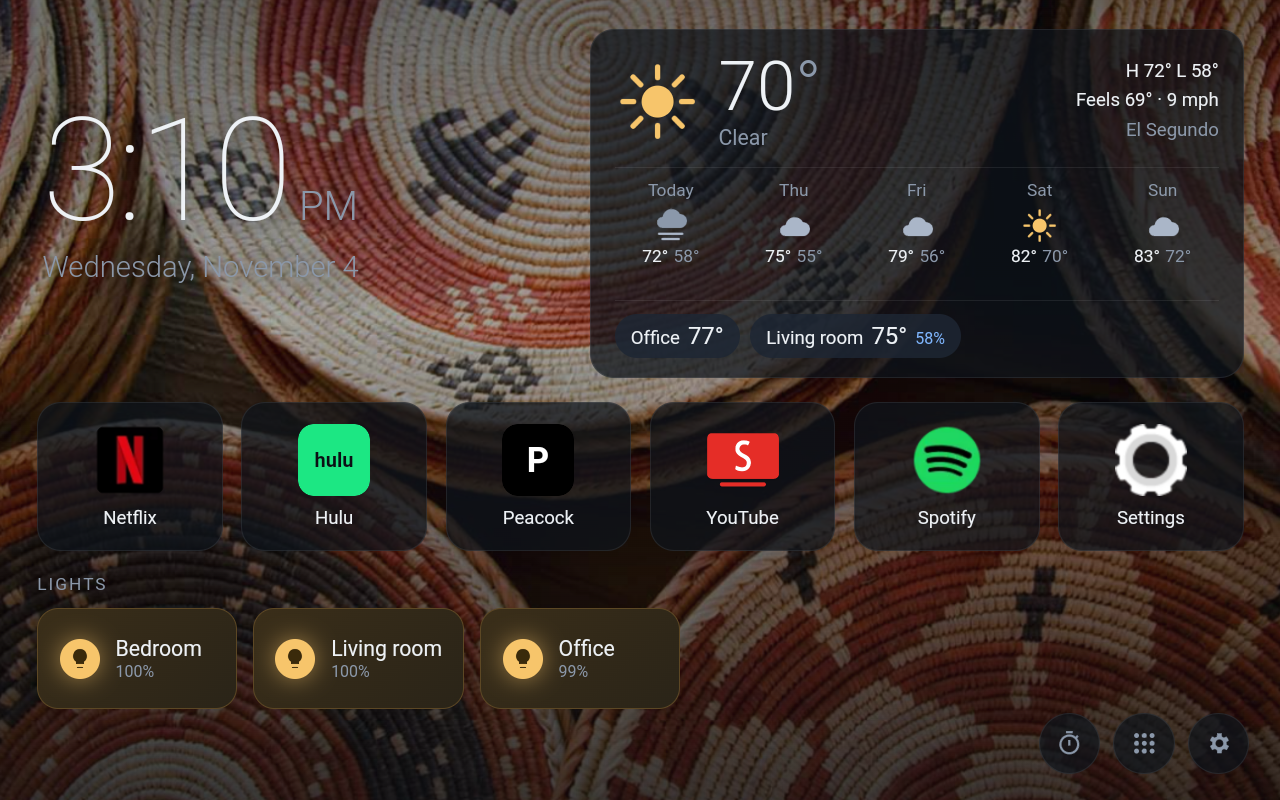
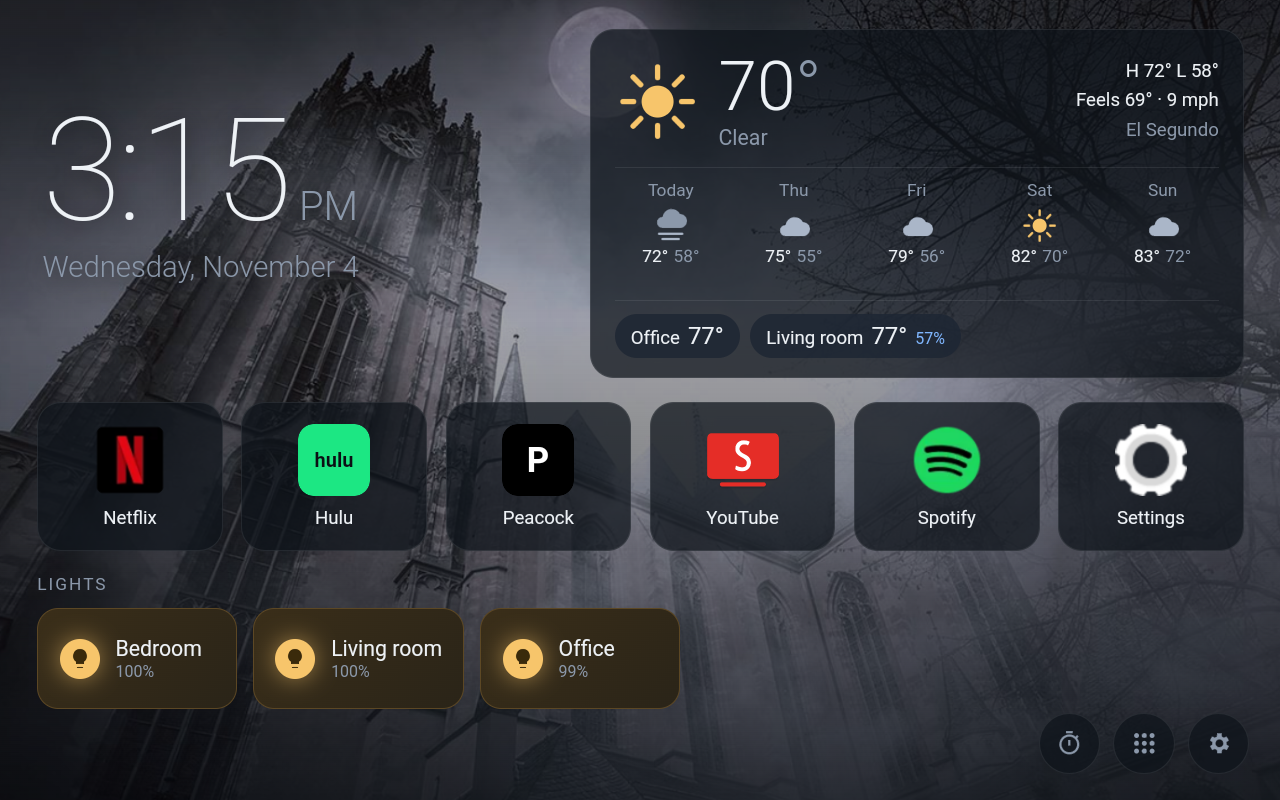
Kitchen Home: per-sensor calibration offsets; AM2302 +1.4 F

diff --git a/app/kitchen-home/assets/features.js b/app/kitchen-home/assets/features.js
@@ -308,7 +308,13 @@ setInterval(() => {
 //   "ha:kitchen"    Home Assistant entities sensor.kitchen_temperature (+ sensor.kitchen_humidity),
 //                   read with the long-lived token pasted into Settings → Home Assistant.
 // Office = Sense HAT Pi; Living room = AM2302 on the Home Assistant Pi; Bedroom Pi still to come.
-const sensorAddrs = () => store.get('sensors', ['192.168.4.34', 'ha:living_room']);
+// An optional "=±N" suffix adds a calibration offset in °F, e.g. "ha:living_room=+1.4".
+// The AM2302 read 75.6 °F next to the Office sensor and the AcuRite at ~77 °F (2026-11-04).
+const sensorAddrs = () => store.get('sensors', ['192.168.4.34', 'ha:living_room=+1.4']);
+const splitOffset = (entry) => {
+  const m = entry.match(/^(.*?)=([+-]?\d+(?:\.\d+)?)$/);
+  return m ? { addr: m[1], offF: parseFloat(m[2]) } : { addr: entry, offF: 0 };
+};
 const sensorUrl = (a) => (a.startsWith('http') ? a : `http://${a}${a.includes(':') ? '' : ':8765'}/reading`);
 const haUrl = () => store.get('ha.url', 'http://192.168.4.37:8123').replace(/\/+$/, '');
 const haToken = () => store.get('ha.token', '');
@@ -337,7 +343,12 @@ async function readHa(name) {
   return out;
 }
 
-const readSensor = (a) => (a.startsWith('ha:') ? readHa(a.slice(3)) : fetchJson(sensorUrl(a), {}, 5000));
+async function readSensor(entry) {
+  const { addr, offF } = splitOffset(entry);
+  const r = await (addr.startsWith('ha:') ? readHa(addr.slice(3)) : fetchJson(sensorUrl(addr), {}, 5000));
+  if (r && r.temp_f !== undefined && offF) r.temp_f += offF;
+  return r;
+}
 
 async function refreshIndoor() {
   const addrs = sensorAddrs();

diff --git a/app/kitchen-home/assets/index.html b/app/kitchen-home/assets/index.html
@@ -115,7 +115,7 @@
       </label>
       <label class="row"><input type="checkbox" id="bg-bing"> Include Bing daily photos</label>
       <h3 style="margin-top:14px">Room sensors</h3>
-      <p class="muted small">One per line: a Pi's address (port 8765 is assumed), e.g. <b>192.168.4.34</b>, or <b>ha:kitchen</b> for Home Assistant's sensor.kitchen_temperature / _humidity.</p>
+      <p class="muted small">One per line: a Pi's address (port 8765 is assumed), e.g. <b>192.168.4.34</b>, or <b>ha:kitchen</b> for Home Assistant's sensor.kitchen_temperature / _humidity. Add <b>=+1.4</b> (°F) to calibrate one, e.g. <b>ha:living_room=+1.4</b>.</p>
       <textarea id="sensor-list" rows="3"></textarea>
       <h3 style="margin-top:14px">Home Assistant</h3>
       <label class="row small muted">Address <input id="ha-url" class="wide-input" placeholder="http://192.168.4.37:8123"></label>

diff --git a/pi/README.md b/pi/README.md
@@ -28,6 +28,9 @@ It serves `http://<pi>:8765/reading` as JSON, and Kitchen Home polls it every mi
   ```
   Check with `docker exec homeassistant python -m homeassistant --script check_config -c /config`, then `docker restart homeassistant`.
 - **First readings:** 76.1 °F, 57.3 % (2026-11-04).
+- **Calibration:** placed next to the Office Sense HAT and the AcuRite (both ~77 °F), the AM2302 read a steady 75.6 °F, so it's **1.4 °F low**.
+  The fix is applied in Kitchen Home (`ha:living_room=+1.4`), not in Home Assistant, because 0.112's `dht` `temperature_offset` is unreliable with °F units.
+  Home Assistant's own UI still shows the raw value. Humidity isn't calibrated (no reference).
 - The old Home Assistant is "Unsupported/Unhealthy" because of its age, but it runs fine. The web UI takes several minutes after boot on the Pi 3.
 
 ## Install / update on a Pi
